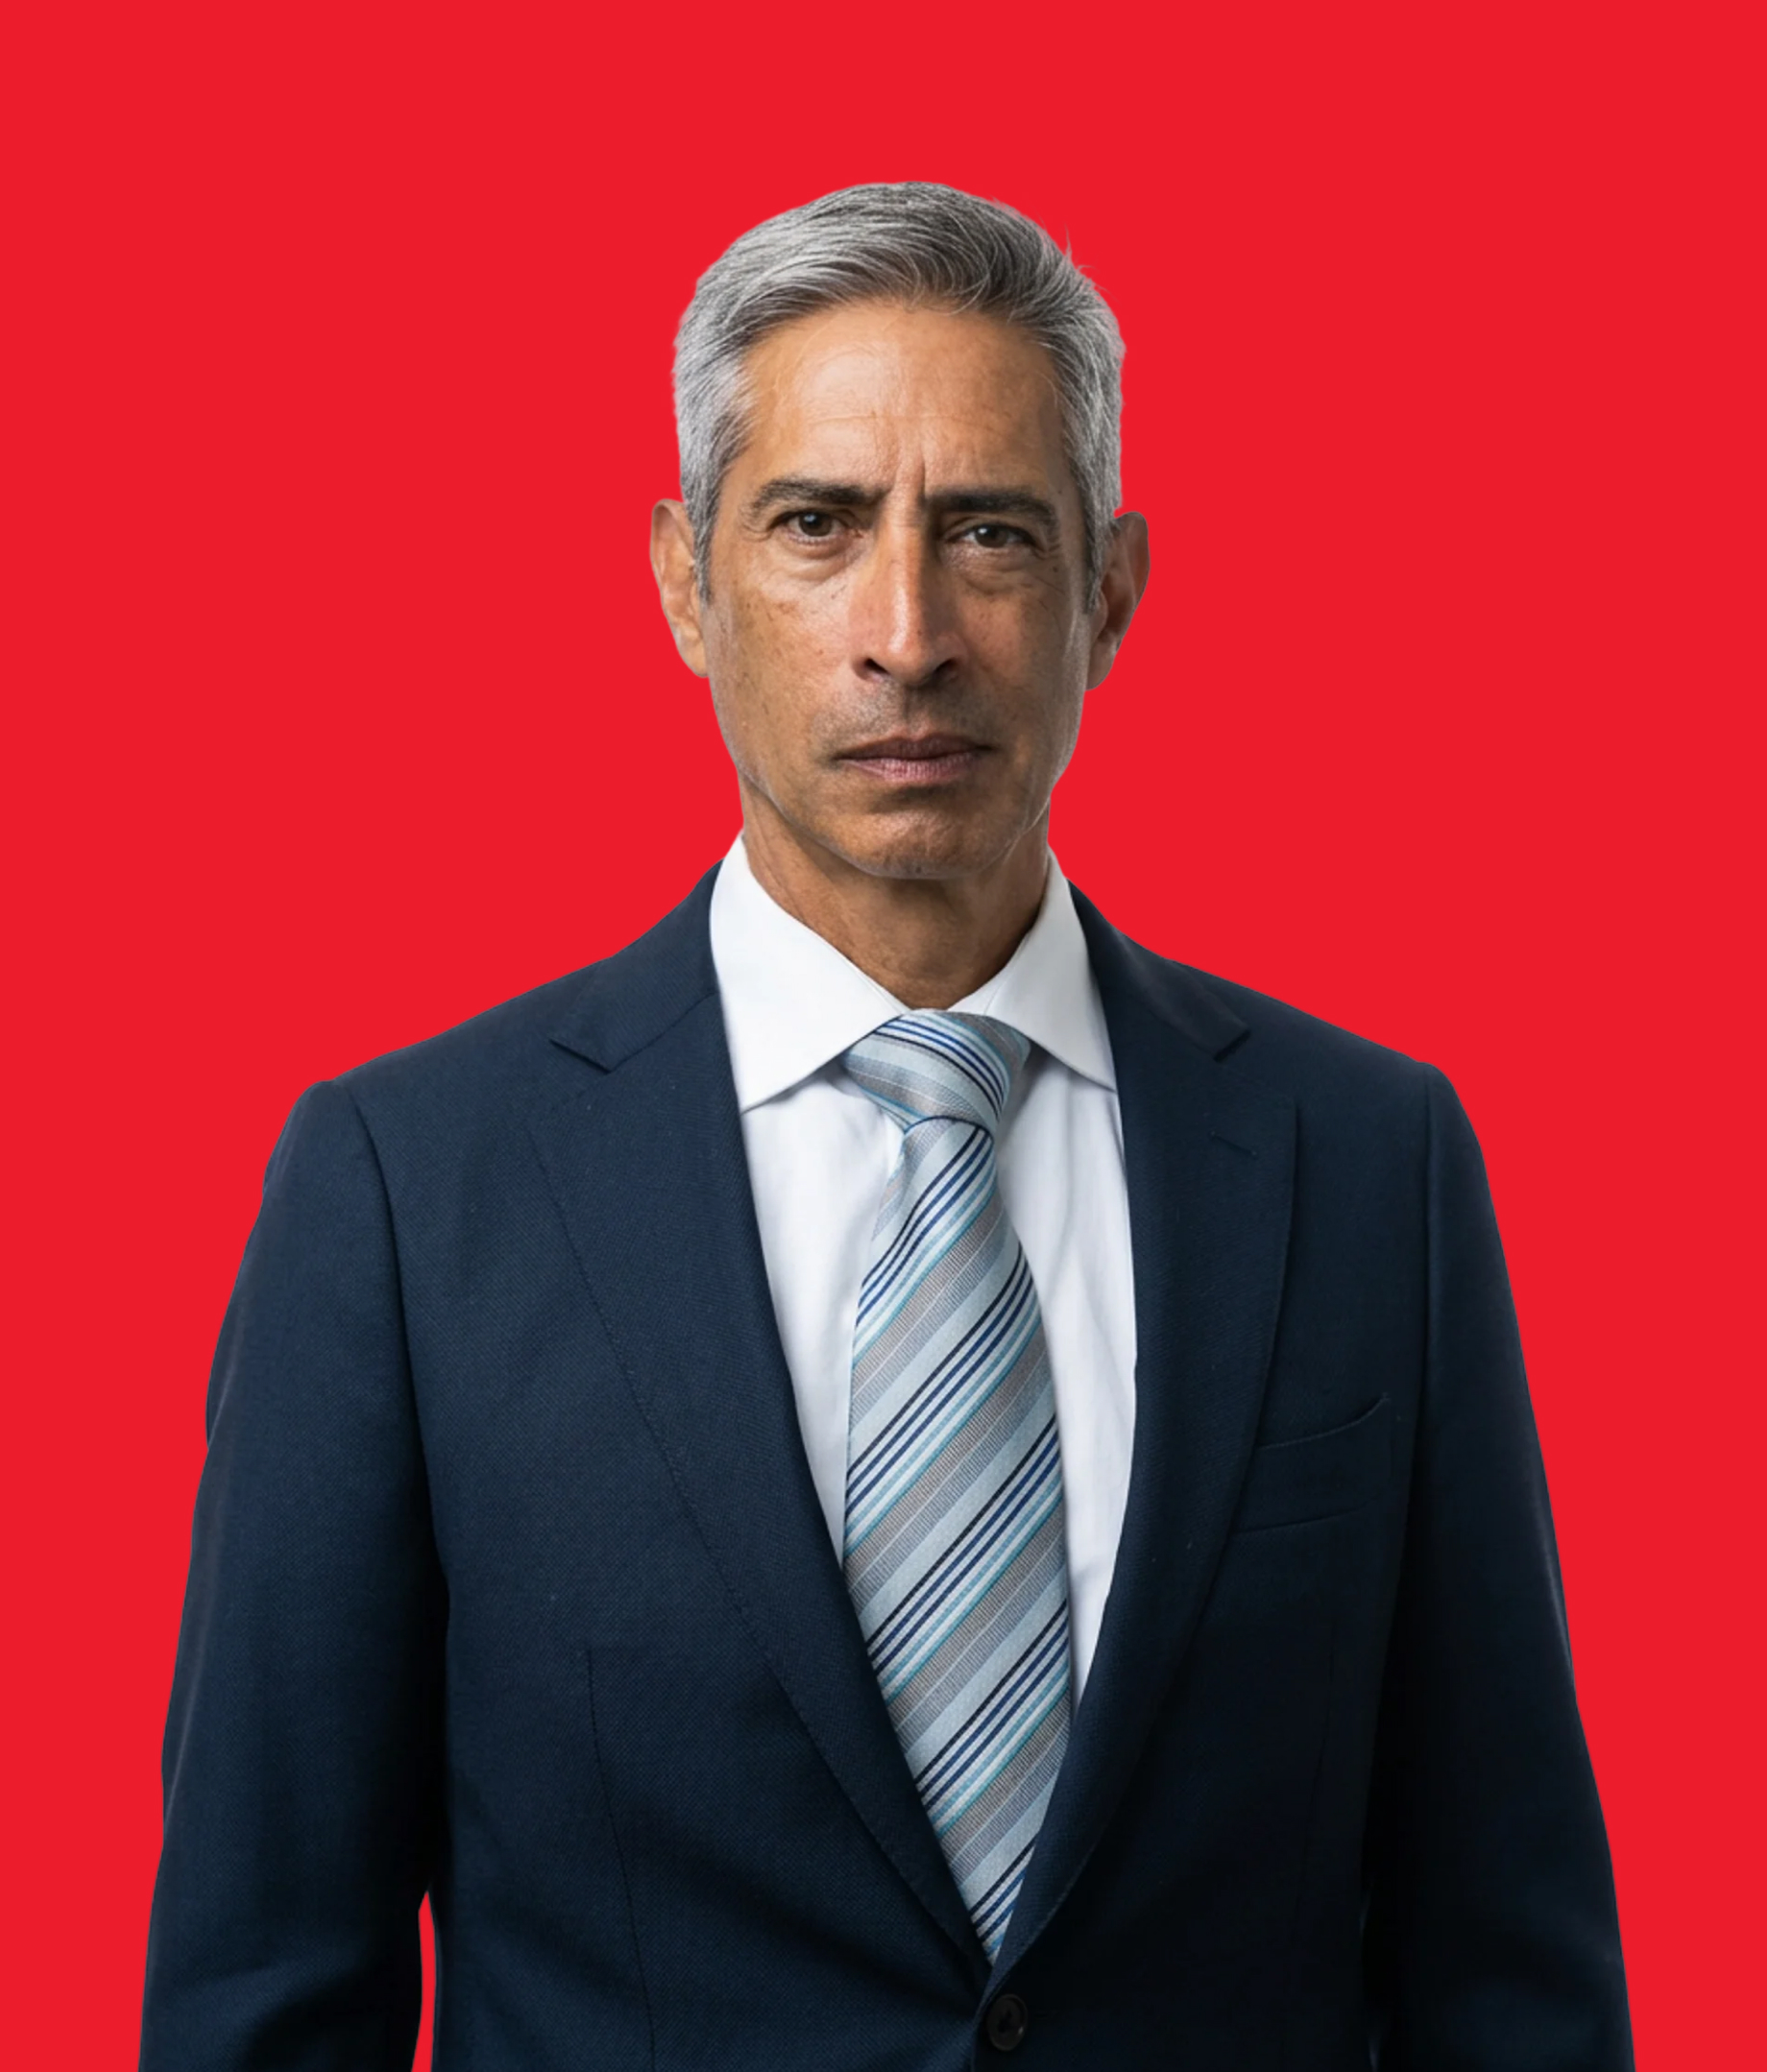
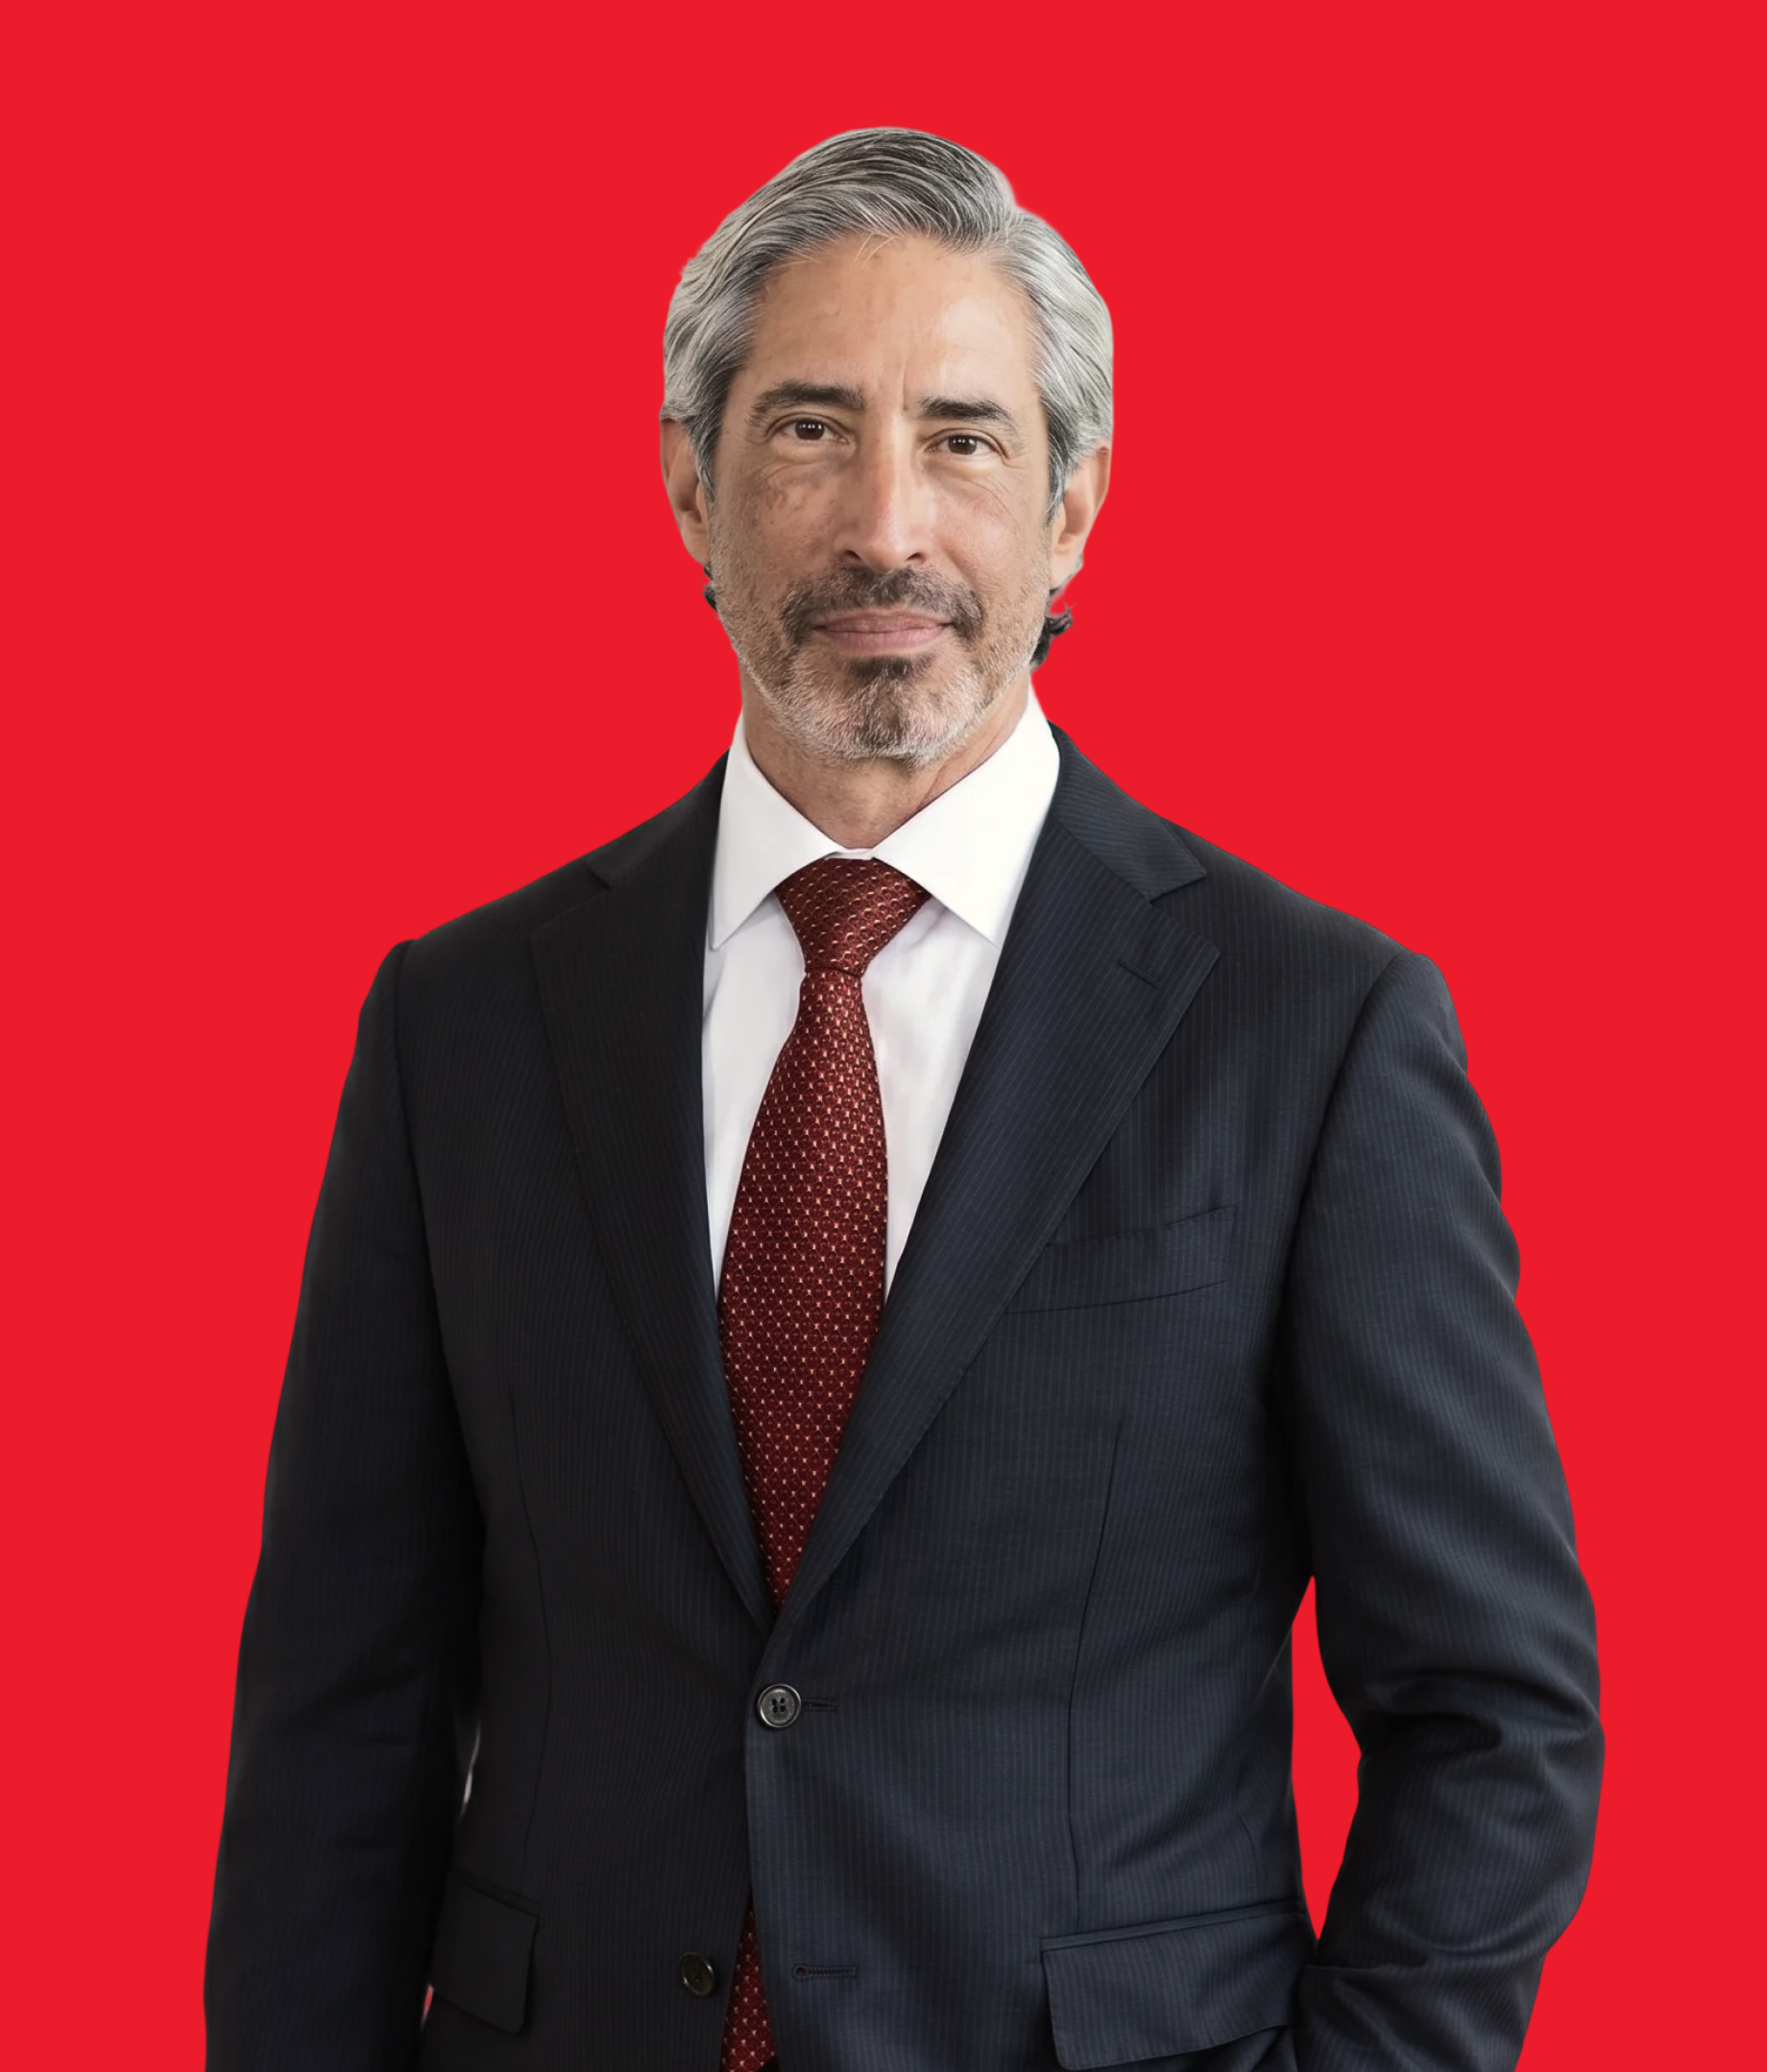
Houston: hero image, header polish, contact CTA, episode read-more
- Use hero-bg.jpg for the hero feature image (v2)
- Shrink header logo; change Subscribe button to Contact ->
  https://benwins.com/contact/ (opens new tab)
- Episode page: clamp description behind a Read more toggle
- Replace non-functional email subscribe form with real Spotify /
  Apple Podcasts links
- Update team-member.jpg

diff --git a/src/themes/v2/components/PodcastSubscribeCTA.tsx b/src/themes/v2/components/PodcastSubscribeCTA.tsx
@@ -1,19 +1,10 @@
 'use client'
 
-import React, { useState } from 'react'
+import React from 'react'
 import { footer, siteConfig } from '@/data/siteData'
 import { subscribeCTA } from '@/lib/site-compat'
 
 const PodcastSubscribeCTA = () => {
-  const [email, setEmail] = useState('')
-  const [submitted, setSubmitted] = useState(false)
-
-  const handleSubmit = (e: React.FormEvent) => {
-    e.preventDefault()
-    if (!email) return
-    setSubmitted(true)
-  }
-
   const socialLinks = [
     { name: 'Instagram', url: footer.socialLinks.instagram, icon: <path d="M12 2.163c3.204 0 3.584.012 4.85.07 3.252.148 4.771 1.691 4.919 4.919.058 1.265.069 1.645.069 4.849 0 3.205-.012 3.584-.069 4.849-.149 3.225-1.664 4.771-4.919 4.919-1.266.058-1.644.07-4.85.07-3.204 0-3.584-.012-4.849-.07-3.26-.149-4.771-1.699-4.919-4.92-.058-1.265-.07-1.644-.07-4.849 0-3.204.013-3.583.07-4.849.149-3.227 1.664-4.771 4.919-4.919 1.266-.057 1.645-.069 4.849-.069zm0-2.163c-3.259 0-3.667.014-4.947.072-4.358.2-6.78 2.618-6.98 6.98-.059 1.281-.073 1.689-.073 4.948 0 3.259.014 3.668.072 4.948.2 4.358 2.618 6.78 6.98 6.98 1.281.058 1.689.072 4.948.072 3.259 0 3.668-.014 4.948-.072 4.354-.2 6.782-2.618 6.979-6.98.059-1.28.073-1.689.073-4.948 0-3.259-.014-3.667-.072-4.947-.196-4.354-2.617-6.78-6.979-6.98-1.281-.059-1.69-.073-4.949-.073zm0 5.838c-3.403 0-6.162 2.759-6.162 6.162s2.759 6.163 6.162 6.163 6.162-2.759 6.162-6.163c0-3.403-2.759-6.162-6.162-6.162zm0 10.162c-2.209 0-4-1.79-4-4 0-2.209 1.791-4 4-4s4 1.791 4 4c0 2.21-1.791 4-4 4zm6.406-11.845c-.796 0-1.441.645-1.441 1.44s.645 1.44 1.441 1.44c.795 0 1.439-.645 1.439-1.44s-.644-1.44-1.439-1.44z" /> },
     { name: 'LinkedIn', url: footer.socialLinks.linkedin, icon: <path d="M19 0h-14c-2.761 0-5 2.239-5 5v14c0 2.761 2.239 5 5 5h14c2.762 0 5-2.239 5-5v-14c0-2.761-2.238-5-5-5zm-11 19h-3v-11h3v11zm-1.5-12.268c-.966 0-1.75-.79-1.75-1.764s.784-1.764 1.75-1.764 1.75.79 1.75 1.764-.783 1.764-1.75 1.764zm13.5 12.268h-3v-5.604c0-3.368-4-3.113-4 0v5.604h-3v-11h3v1.765c1.396-2.586 7-2.777 7 2.476v6.759z" /> },
@@ -48,48 +39,25 @@ const PodcastSubscribeCTA = () => {
           ))}
         </div>
 
-        {/* Email Form */}
-        {submitted ? (
-          <div className="max-w-lg mx-auto bg-white/5 border border-white/20 rounded-lg p-6 text-center">
-            <p className="text-white font-bold mb-4">Thanks — you&rsquo;re subscribed.</p>
-            <p className="text-white/60 text-sm mb-4">Listen to new episodes the moment they drop:</p>
-            <div className="flex justify-center gap-3">
-              <a
-                href={siteConfig.platformLinks.spotify}
-                target="_blank"
-                rel="noopener noreferrer"
-                className="bg-secondary text-white font-bold px-6 py-2.5 rounded-lg hover:bg-secondary-hover transition-colors"
-              >
-                Spotify
-              </a>
-              <a
-                href={siteConfig.platformLinks.apple}
-                target="_blank"
-                rel="noopener noreferrer"
-                className="bg-white text-primary font-bold px-6 py-2.5 rounded-lg hover:bg-white/90 transition-colors"
-              >
-                Apple Podcasts
-              </a>
-            </div>
-          </div>
-        ) : (
-          <form onSubmit={handleSubmit} className="flex flex-col md:flex-row gap-4 max-w-lg mx-auto">
-            <input
-              type="email"
-              required
-              placeholder="Enter your email address"
-              value={email}
-              onChange={(e) => setEmail(e.target.value)}
-              className="flex-1 bg-white/5 border border-white/20 rounded-lg px-6 py-4 text-white placeholder-white/40 focus:outline-none focus:border-secondary transition-colors"
-            />
-            <button
-              type="submit"
-              className="bg-secondary text-white font-bold px-8 py-4 rounded-lg hover:bg-secondary-hover transition-colors"
-            >
-              Subscribe
-            </button>
-          </form>
-        )}
+        {/* Listen on platforms */}
+        <div className="flex flex-col sm:flex-row justify-center gap-4 max-w-lg mx-auto">
+          <a
+            href={siteConfig.platformLinks.spotify}
+            target="_blank"
+            rel="noopener noreferrer"
+            className="bg-secondary text-white font-bold px-8 py-4 rounded-lg hover:bg-secondary-hover transition-colors"
+          >
+            Listen on Spotify
+          </a>
+          <a
+            href={siteConfig.platformLinks.apple}
+            target="_blank"
+            rel="noopener noreferrer"
+            className="bg-white text-primary font-bold px-8 py-4 rounded-lg hover:bg-white/90 transition-colors"
+          >
+            Listen on Apple Podcasts
+          </a>
+        </div>
       </div>
     </section>
   )

diff --git a/src/themes/v2/components/EpisodeHero.tsx b/src/themes/v2/components/EpisodeHero.tsx
@@ -1,6 +1,6 @@
 'use client'
 
-import React from 'react'
+import React, { useState } from 'react'
 import Link from 'next/link'
 import Image from 'next/image'
 import { Episode } from '@/lib/data'
@@ -14,6 +14,8 @@ function EpisodeHero({ episode: propEpisode }: EpisodeHeroProps) {
   const ep = propEpisode ?? staticEpisode
   const fallbackArt = episodesData.find((e) => e.logo)?.logo
   const coverImage = (ep as { logo?: string }).logo || fallbackArt
+  const [expanded, setExpanded] = useState(false)
+  const isLong = (ep.description?.length ?? 0) > 280
 
   return (
     <section className="relative pt-36 pb-16 md:pt-44 md:pb-20 bg-[#f4f2ed]">
@@ -47,9 +49,26 @@ function EpisodeHero({ episode: propEpisode }: EpisodeHeroProps) {
             </h1>
 
             {/* Description */}
-            <p className="text-lg text-primary/60 leading-relaxed max-w-xl">
-              {ep.description}
-            </p>
+            <div className="max-w-xl">
+              <p
+                className={`text-lg text-primary/60 leading-relaxed ${
+                  isLong && !expanded ? 'line-clamp-4' : ''
+                }`}
+              >
+                {ep.description}
+              </p>
+              {isLong && (
+                <button
+                  onClick={() => setExpanded((v) => !v)}
+                  className="mt-2 inline-flex items-center gap-1 text-sm font-semibold text-primary hover:text-secondary transition-colors"
+                >
+                  {expanded ? 'Read less' : 'Read more'}
+                  <span aria-hidden className={`transition-transform ${expanded ? 'rotate-180' : ''}`}>
+                    ▾
+                  </span>
+                </button>
+              )}
+            </div>
 
             {/* Date + Duration */}
             <div className="flex items-center gap-6 text-sm text-primary/50">

diff --git a/src/themes/v2/components/Header.tsx b/src/themes/v2/components/Header.tsx
@@ -20,7 +20,7 @@ const Header = () => {
       <div className="max-w-7xl mx-auto px-4 sm:px-6 py-4 md:py-6 flex items-center justify-between gap-3">
         {/* Logo */}
         <Link href="/" className="flex-shrink-0">
-          <img src="/images/logo.svg" alt="Logo" className="h-20 md:h-24 w-auto object-contain" />
+          <img src="/images/logo.svg" alt="Logo" className="h-14 md:h-16 w-auto object-contain" />
         </Link>
 
         {/* Desktop Nav */}
@@ -34,7 +34,9 @@ const Header = () => {
         {/* Subscribe + Mobile Toggle */}
         <div className="flex items-center gap-2 sm:gap-4 flex-shrink-0">
           <Link
-            href="/#subscribe"
+            href="https://benwins.com/contact/"
+            target="_blank"
+            rel="noopener noreferrer"
             className="bg-secondary text-white px-4 sm:px-6 py-2 sm:py-2.5 rounded-full text-xs sm:text-sm font-medium hover:bg-secondary-hover transition-all transform hover:scale-105 shadow-lg shadow-secondary/20 whitespace-nowrap"
           >
             {navigation.ctaText}

diff --git a/src/themes/v2/components/Hero.tsx b/src/themes/v2/components/Hero.tsx
@@ -71,7 +71,7 @@ const Hero = ({ latestEpisode }: HeroProps) => {
           {/* Main Image */}
           <div className="absolute inset-0 rounded-t-[200px] overflow-hidden border-8 border-white shadow-2xl">
             <img
-              src="/hero-placeholder.jpg"
+              src="/hero-bg.jpg"
               alt="Hero background"
               className="w-full h-full object-cover grayscale opacity-90 hover:scale-105 transition-transform duration-700"
             />